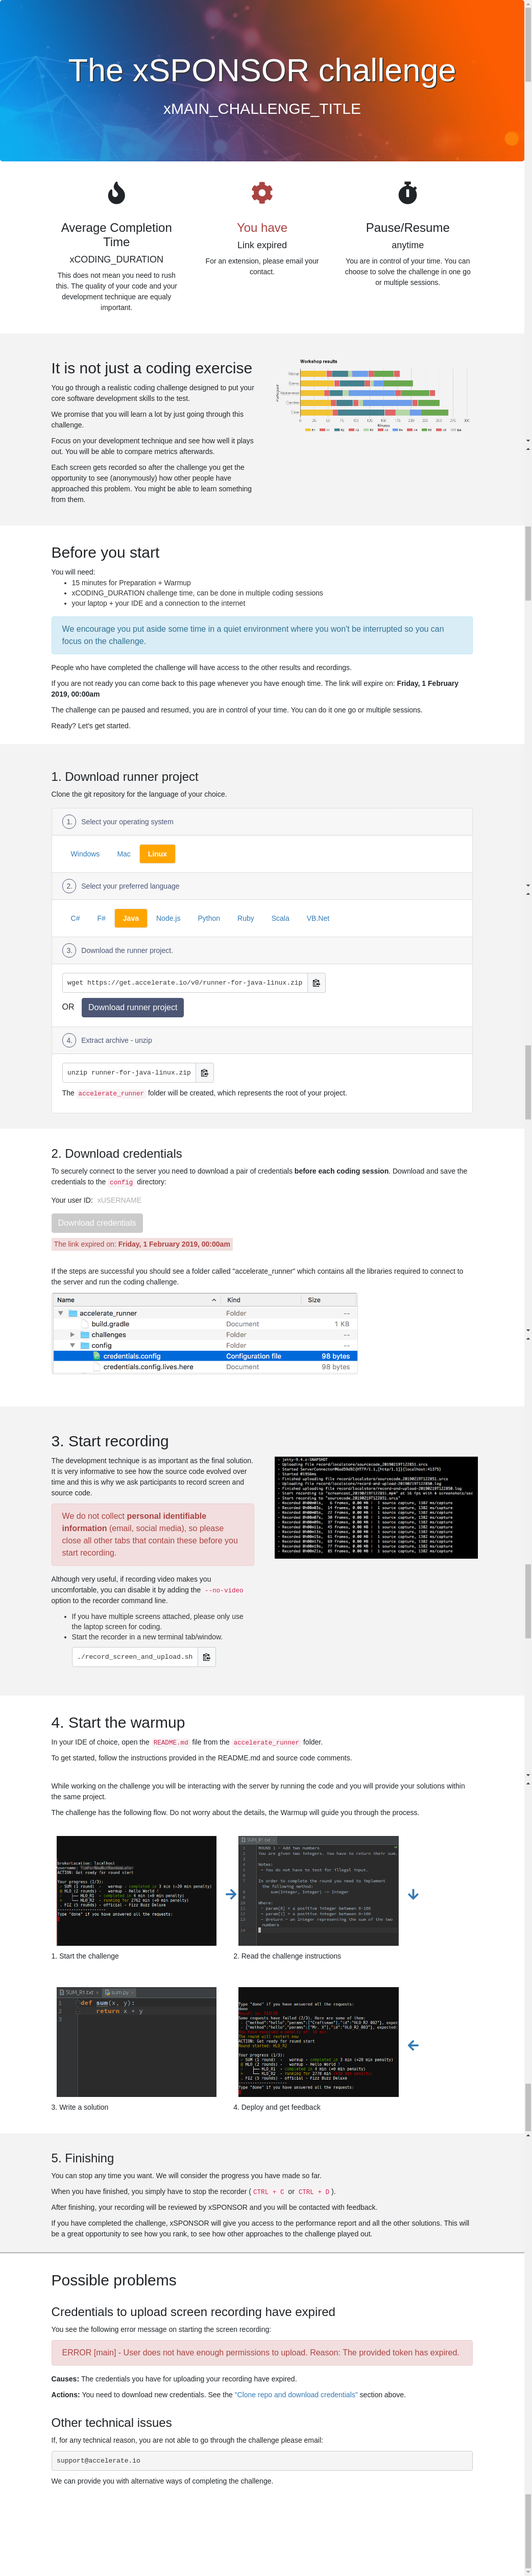
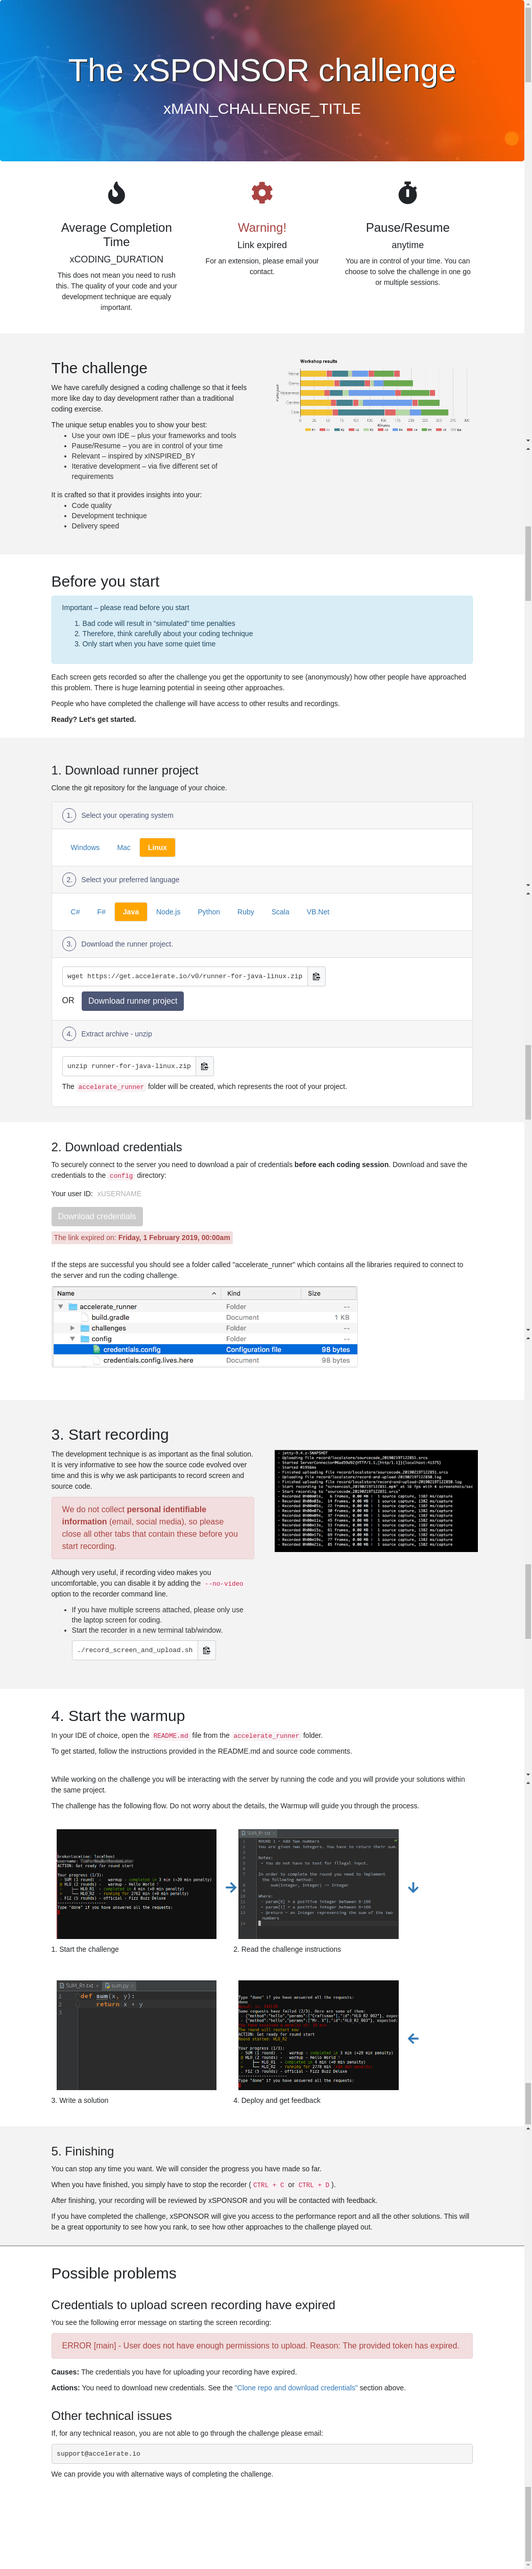
Rewrite the copy for the challenge and before challenge section

diff --git a/src/main/java/tdl/auth/linkgenerator/IntroPageTemplate.java b/src/main/java/tdl/auth/linkgenerator/IntroPageTemplate.java
@@ -38,10 +38,12 @@ public class IntroPageTemplate {
         contentParams.put("HEADER_IMAGE_NAME", introPageParameters.getHeaderImageName());
         contentParams.put("MAIN_CHALLENGE_TITLE", introPageParameters.getMainChallengeTitle());
         contentParams.put("SPONSOR", introPageParameters.getSponsorName());
+        contentParams.put("INSPIRED_BY", introPageParameters.getInspiredBy());
         contentParams.put("EXPIRATION_DATE", introPageParameters.getExpirationDate().getTime());
         contentParams.put("CODING_SESSION_DURATION", introPageParameters.getCodingSessionDurationLabel());
         contentParams.put("ENABLE_NO_VIDEO_OPTION", introPageParameters.getEnableNoVideoOption());
         contentParams.put("ENABLE_APPLY_PRESSURE", introPageParameters.getEnableApplyPressure());
+        contentParams.put("ENABLE_REPORT_SHARING", introPageParameters.getEnableReportSharing());
         contentParams.put("USERNAME", introPageParameters.getUsername());
         contentParams.put("CHALLENGE", introPageParameters.getChallenge());
         contentParams.put("TOKEN", introPageParameters.getToken());

diff --git a/src/test/java/tdl/auth/linkgenerator/IntroPageTemplateTest.java b/src/test/java/tdl/auth/linkgenerator/IntroPageTemplateTest.java
@@ -23,6 +23,7 @@ public class IntroPageTemplateTest {
                 .headerImageName("headerImageName.jpg")
                 .mainChallengeTitle("challengeTitle")
                 .sponsorName("sponsorName")
+                .inspiredBy("divineInspiration")
                 .codingSessionDurationLabel("3hours")
                 .enableNoVideoOption(true)
                 .enableApplyPressure(true)
@@ -36,6 +37,7 @@ public class IntroPageTemplateTest {
         assertThat(content, containsString(resourcesWebPath+"/"+ params.getHeaderImageName()));
         assertThat(content, containsString(params.getMainChallengeTitle()));
         assertThat(content, containsString(params.getSponsorName()));
+        assertThat(content, containsString(params.getInspiredBy()));
         assertThat(content, containsString(params.getUsername()));
         assertThat(content, containsString(params.getChallenge()));
         assertThat(content, containsString(params.getCodingSessionDurationLabel()));

diff --git a/src/main/java/tdl/auth/linkgenerator/IntroPageParameters.java b/src/main/java/tdl/auth/linkgenerator/IntroPageParameters.java
@@ -14,10 +14,11 @@ public class IntroPageParameters {
     @Builder.Default private String headerImageName = "accelerate.jpg";
     @Builder.Default private String mainChallengeTitle = "xMAIN_CHALLENGE_TITLE";
     @Builder.Default private String sponsorName = "xSPONSOR";
+    @Builder.Default private String inspiredBy = "xINSPIRED_BY";
     @Builder.Default private String codingSessionDurationLabel = "xCODING_DURATION";
     @Builder.Default private Boolean enableNoVideoOption = true;
-    @Builder.Default private Boolean enableReportSharing = true;
     @Builder.Default private Boolean enableApplyPressure = true;
+    @Builder.Default private Boolean enableReportSharing = true;
     @Builder.Default private String username = "xUSERNAME";
     @Builder.Default private String challenge = "xCHALLENGE";
     @Builder.Default private String token = "xTOKEN";

diff --git a/src/webTests/java/tdl/auth/linkgenerator/IntroPageManualRender.java b/src/webTests/java/tdl/auth/linkgenerator/IntroPageManualRender.java
@@ -27,9 +27,8 @@ public class IntroPageManualRender {
                 .headerImageName("makers.jpg")
                 .mainChallengeTitle("Developer Insights")
                 .sponsorName("Makers Academy")
+                .inspiredBy("real business domain")
                 .codingSessionDurationLabel("3 hours")
-                .enableNoVideoOption(true)
-                .enableApplyPressure(false)
                 .username("xwya01")
                 .challenge("CHK")
                 .token("asdf")
